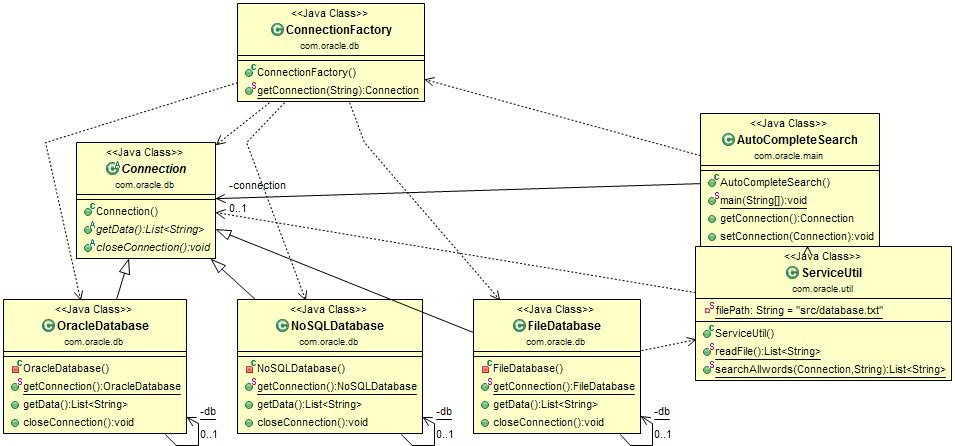
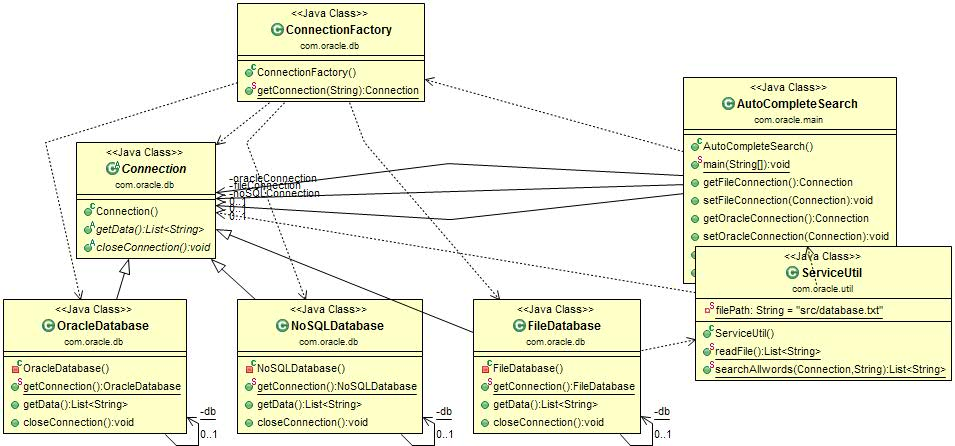
searching in all databases.

diff --git a/OracleAutoComplete/src/com/oracle/main/AutoCompleteSearch.java b/OracleAutoComplete/src/com/oracle/main/AutoCompleteSearch.java
@@ -31,12 +31,16 @@ import com.oracle.util.ServiceUtil;
 public class AutoCompleteSearch {
 	
 
-	private Connection connection = null;
+	private Connection fileConnection = null;
+	private Connection oracleConnection = null;
+	private Connection noSQLConnection = null;
 	
 	public AutoCompleteSearch() {
 		
 		// once the application is up, instantiate the db connection.
-		setConnection(ConnectionFactory.getConnection("FILE"));
+		setFileConnection(ConnectionFactory.getConnection("FILE"));
+		setOracleConnection(ConnectionFactory.getConnection("ORACLE"));
+		setNoSQLConnection(ConnectionFactory.getConnection("NOSQL"));
 	}
 	/**
 	 * @param args
@@ -64,7 +68,11 @@ public class AutoCompleteSearch {
 					case 1 :  {
 						System.out.println("Please enter the key : ");
 						String enteredKey = scn.nextLine();
-						List<String> matchingWords = ServiceUtil.searchAllwords(autoSearch.getConnection(), enteredKey);
+						List<String> matchingWords = ServiceUtil.searchAllwords(autoSearch.getFileConnection(), enteredKey);
+						List<String> oracleWords = ServiceUtil.searchAllwords(autoSearch.getOracleConnection(), enteredKey);
+						List<String> noSQLWords = ServiceUtil.searchAllwords(autoSearch.getOracleConnection(), enteredKey);
+						matchingWords.addAll(oracleWords);
+						matchingWords.addAll(noSQLWords);
 						if (null != matchingWords && matchingWords.size()!=0) {
 							//Displaying the words in sorted order, alphabetically.
 							Collections.sort(matchingWords);
@@ -83,24 +91,47 @@ public class AutoCompleteSearch {
 			}
 		}
 		scn.close();
-		autoSearch.getConnection().closeConnection();
+		autoSearch.getFileConnection().closeConnection();
+		autoSearch.getOracleConnection().closeConnection();
+		autoSearch.getNoSQLConnection().closeConnection();
 		System.out.println("Application is closed !!");
 	}
-	
 	/**
-	 * @return the connection
+	 * @return the fileConnection
 	 */
-	public Connection getConnection() {
-		
-		return connection;
+	public Connection getFileConnection() {
+		return fileConnection;
+	}
+	/**
+	 * @param fileConnection the fileConnection to set
+	 */
+	public void setFileConnection(Connection fileConnection) {
+		this.fileConnection = fileConnection;
+	}
+	/**
+	 * @return the oracleConnection
+	 */
+	public Connection getOracleConnection() {
+		return oracleConnection;
+	}
+	/**
+	 * @param oracleConnection the oracleConnection to set
+	 */
+	public void setOracleConnection(Connection oracleConnection) {
+		this.oracleConnection = oracleConnection;
+	}
+	/**
+	 * @return the noSQLConnection
+	 */
+	public Connection getNoSQLConnection() {
+		return noSQLConnection;
+	}
+	/**
+	 * @param noSQLConnection the noSQLConnection to set
+	 */
+	public void setNoSQLConnection(Connection noSQLConnection) {
+		this.noSQLConnection = noSQLConnection;
 	}
 	
-	/**
-	 * @param connection the connection to set
-	 */
-	public void setConnection(Connection connection) {
-		
-		this.connection = connection;
-	}
 	
 }
